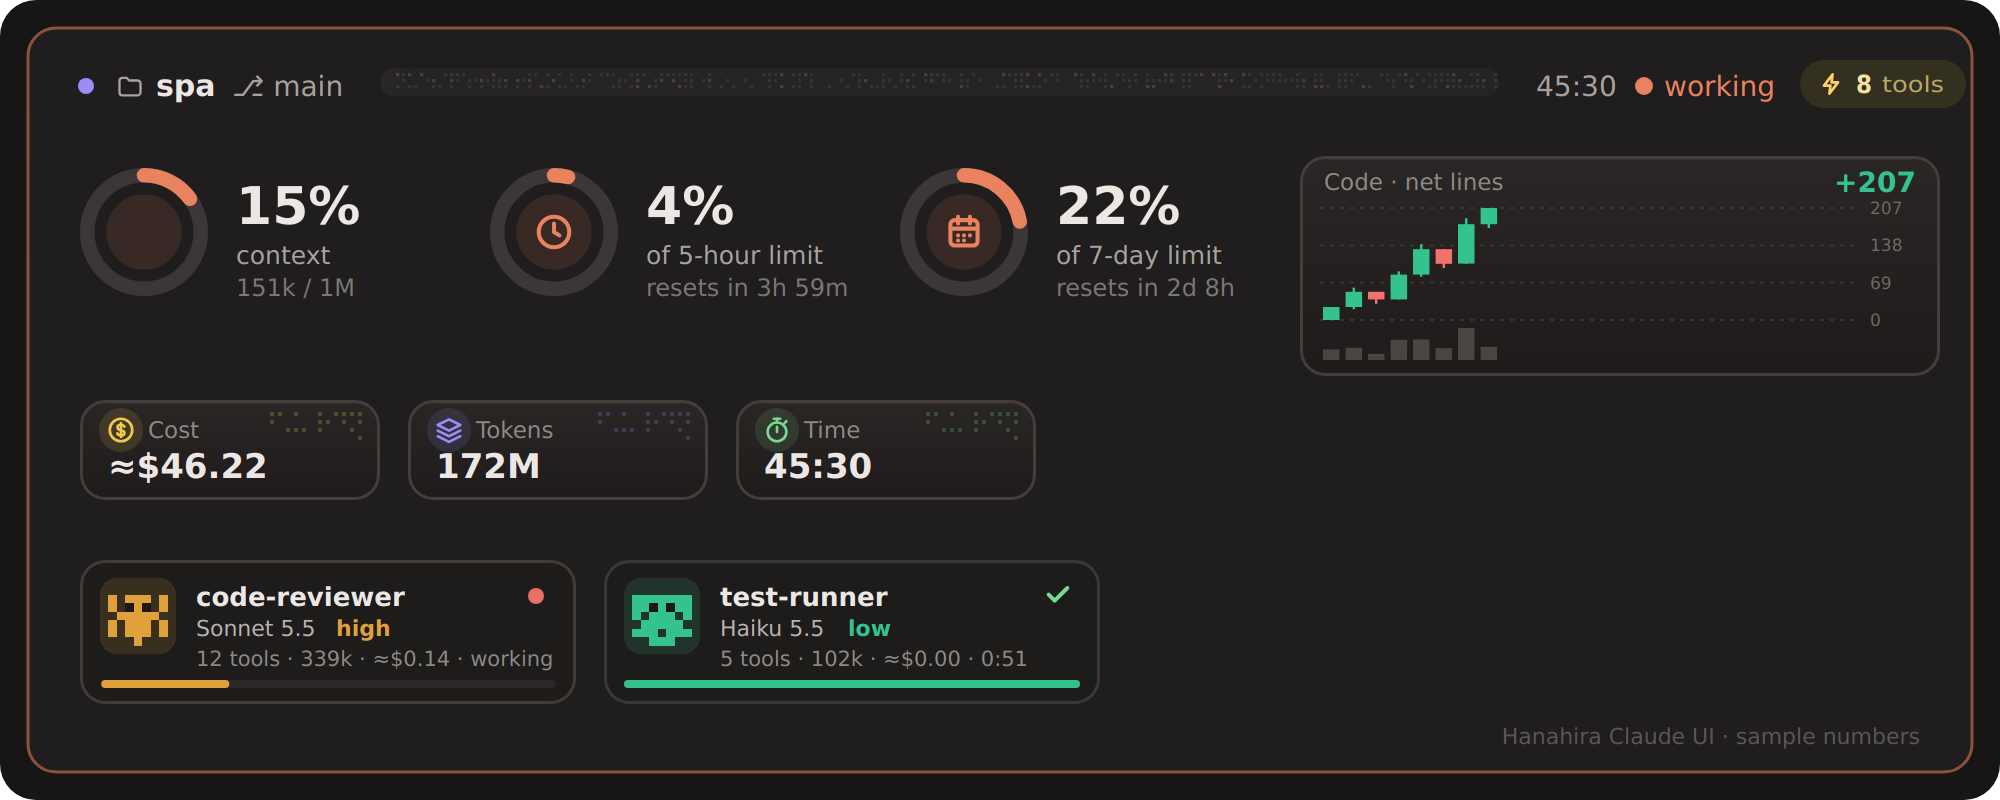
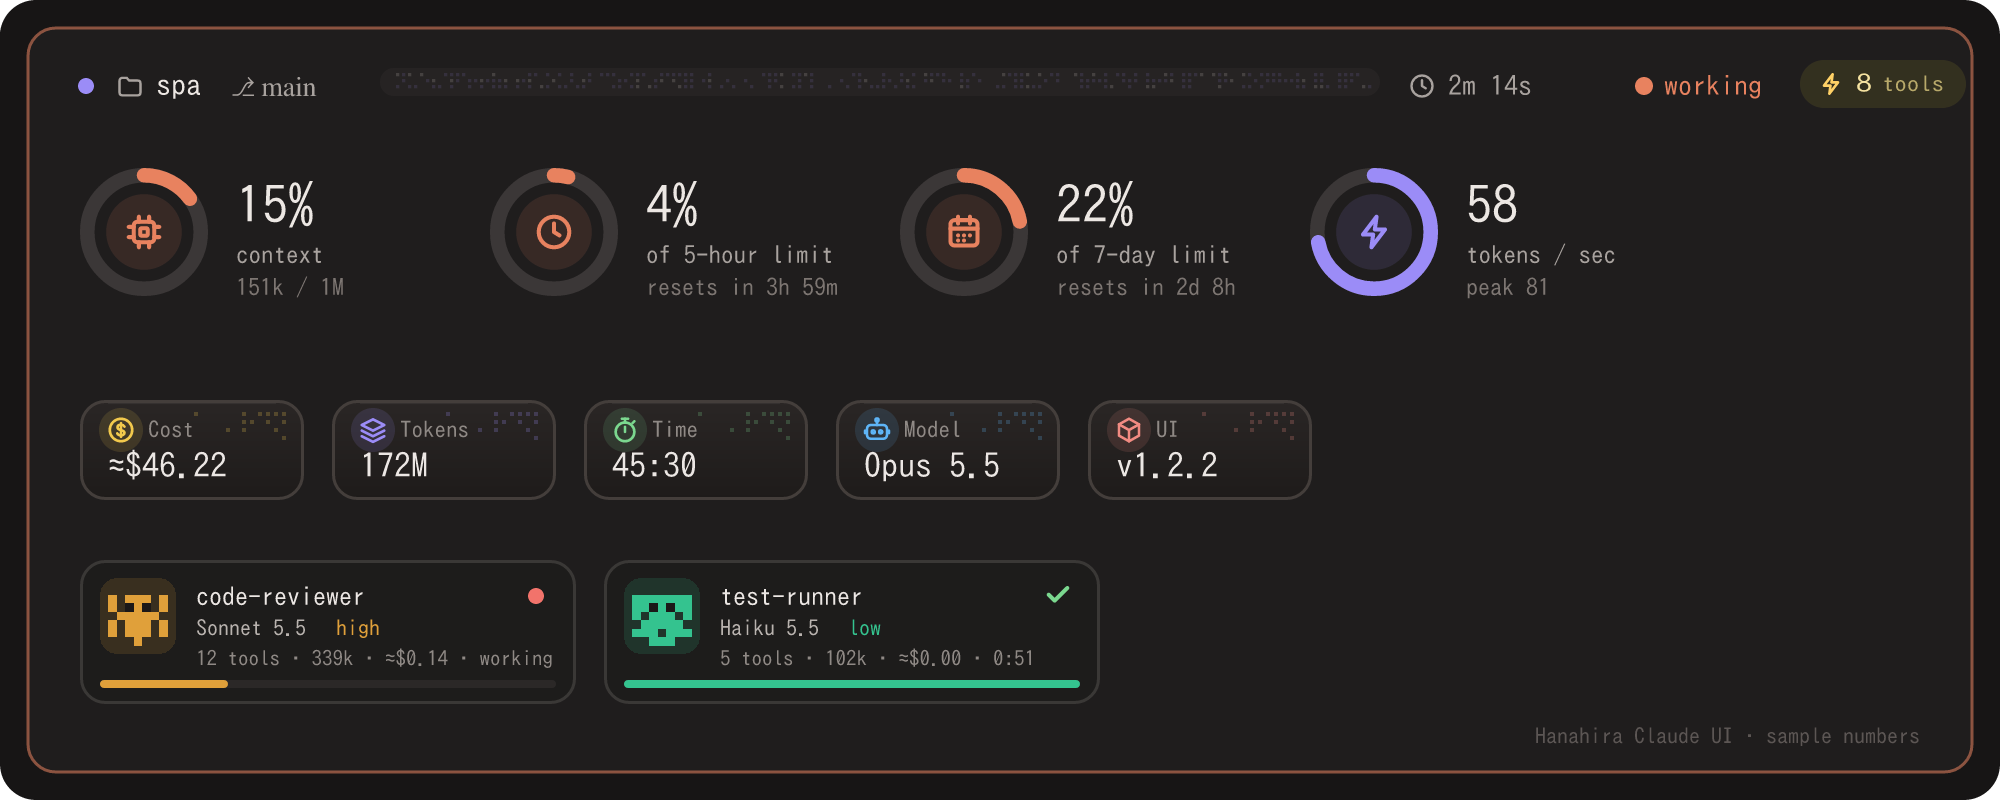
Preview: regenerate preview.png and match the current band
The README shows docs/preview.png, but e4718e0 only refreshed
preview.svg, so the image still had the removed code chart. The script
also drifted from the band: the context ring uses the chip icon, the
cards include Model and UI, the Time card uses fmtClock, and the header
shows a clock icon with fmtElapsed.

diff --git a/scripts/preview.ts b/scripts/preview.ts
@@ -1,9 +1,10 @@
 // Renders docs/preview.svg / preview.png: the status band drawn by the plugin's own SVG
 // builders (chat.ts, agents.ts, icons.ts) with sample numbers. Run: bun scripts/preview.ts
 import { writeFileSync } from 'node:fs'
-import { agentCardSvg, CARD_W, CARD_H } from '../hooks/agents'
-import { cardSvg, countSvg, dotSvg, loadingSvg } from '../hooks/chat'
+import { agentCardSvg, CARD_W, CARD_H, prettyModel } from '../hooks/agents'
+import { cardSvg, countSvg, dotSvg, fmtClock, fmtElapsed, loadingSvg } from '../hooks/chat'
 import { iconGroup, iconSvg } from '../hooks/icons'
+import { VERSION } from '../hooks/version'
 import type { Agent } from '../types'
 
 const ACCENT = '#9b8cf7'
@@ -35,12 +36,13 @@ parts.push(`<rect x="14" y="14" width="${W - 28}" height="${H - 28}" rx="14" fil
 parts.push(nest(dotSvg(ACCENT, false), 36, 36))
 parts.push(nest(iconSvg('folder', '#a8a29e', 14), 58, 36))
 parts.push(`<text x="78" y="48" ${font} font-size="15" font-weight="600" fill="#ece7e3">spa</text><text x="116" y="48" ${font} font-size="14" fill="#a8a29e">⎇ main</text>`)
-parts.push(nest(loadingSvg(560, 14, ACCENT, { live: true }), 190, 34))
-parts.push(`<text x="768" y="48" ${font} font-size="14" fill="#a8a29e">45:30</text><circle cx="822" cy="43" r="4.5" fill="${WARM}"/><text x="832" y="48" ${font} font-size="14" fill="${WARM}">working</text>`)
+parts.push(nest(loadingSvg(500, 14, ACCENT, { live: true }), 190, 34))
+parts.push(nest(iconSvg('clock', '#a8a29e', 14), 704, 36))
+parts.push(`<text x="724" y="48" ${font} font-size="14" fill="#a8a29e">${fmtElapsed(134)}</text><circle cx="822" cy="43" r="4.5" fill="${WARM}"/><text x="832" y="48" ${font} font-size="14" fill="${WARM}">working</text>`)
 parts.push(nest(countSvg(8), 900, 30))
 // rings
 const rings: [number, string, string, string, string, string][] = [
-  [15, '#e8825f', 'cpu', '15%', 'context', '151k / 1M'],
+  [15, '#e8825f', 'chip', '15%', 'context', '151k / 1M'],
   [4, '#e8825f', 'clock', '4%', 'of 5-hour limit', 'resets in 3h 59m'],
   [22, '#e8825f', 'calendar', '22%', 'of 7-day limit', 'resets in 2d 8h'],
   [72, ACCENT, 'bolt', '58', 'tokens / sec', 'peak 81'],
@@ -51,7 +53,7 @@ rings.forEach(([p, col, ic, big, cap, sub], i) => {
   parts.push(`<text x="${x + 78}" y="112" ${font} font-size="26" font-weight="700" fill="#ece7e3">${big}</text><text x="${x + 78}" y="132" ${font} font-size="12.5" fill="#a8a29e">${cap}</text><text x="${x + 78}" y="148" ${font} font-size="12" fill="#7d7672">${sub}</text>`)
 })
 // total cards
-const cards: [string, string, never, string][] = [['Cost', '≈$46.22', 'coin' as never, '#f2c94c'], ['Tokens', '172M', 'layers' as never, '#9b8cf7'], ['Time', '45:30', 'stopwatch' as never, '#7bd88f']]
+const cards: [string, string, never, string][] = [['Cost', '≈$46.22', 'coin' as never, '#f2c94c'], ['Tokens', '172M', 'layers' as never, '#9b8cf7'], ['Time', fmtClock(2_730_000), 'stopwatch' as never, '#7bd88f'], ['Model', prettyModel('claude-opus-5-5'), 'bot' as never, '#5eb5f7'], ['UI', `v${VERSION}`, 'cube' as never, '#f28b82']]
 let cx = 40
 for (const [l, v, ic, col] of cards) {
   const a = cardSvg(l, v, { accent: ACCENT, icon: ic, iconColor: col })
